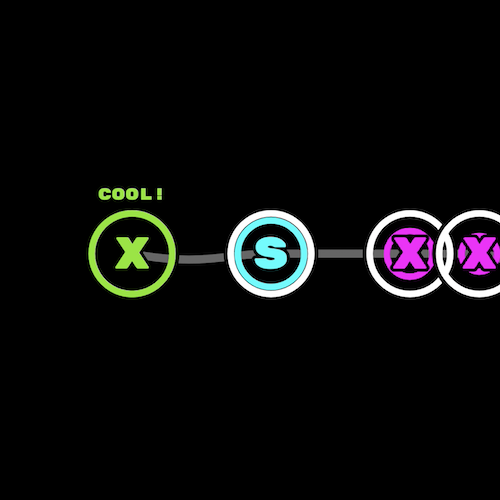
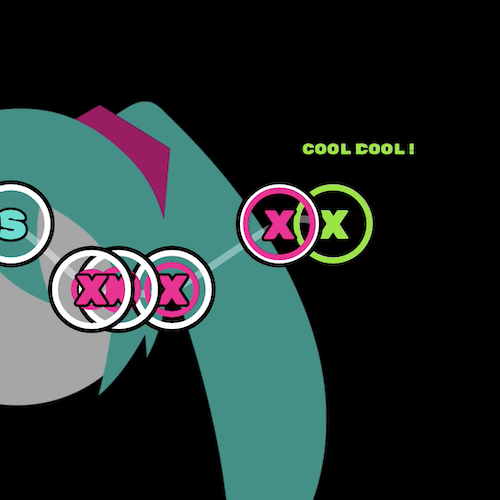
adeed amplitude + hard mode

diff --git a/sketch.js b/sketch.js
@@ -13,21 +13,31 @@ let playRate = 1;
 let scaleSize;
 let scorePercent;
 let songPercent;
-let scoreColor = 'white';
+
+let colorGreen = 'rgb(130,230,0)';
+let colorBlue = 'rgb(41,224,207)';
+let colorRed = 'rgb(255,0,150)';
+let colorPurple = 'rgb(120,60,120))';
+let colorGray = 'rgb(120,120,120)';
+let colorB = 'black';
+let colorW = 'white';
+
+let scoreColor = colorW;
 
 
 function preload() {
-  data = loadJSON("/2020-03-rrigamondi/assets/beatmap.json");
-  clap = loadSound("/2020-03-rrigamondi/assets/clap.wav")
-  ievan = loadSound("/2020-03-rrigamondi/assets/ievan_polkka.m4a");
-  //data = loadJSON("/assets/beatmap.json");
-  //clap = loadSound("/assets/clap.wav")
-  //ievan = loadSound("/assets/ievan_polkka.m4a");
+  //data = loadJSON("/2020-03-rrigamondi/assets/beatmap.json");
+  //clap = loadSound("/2020-03-rrigamondi/assets/clap.wav")
+  //ievan = loadSound("/2020-03-rrigamondi/assets/ievan_polkka.m4a");
+  data = loadJSON("/assets/beatmap.json");
+  clap = loadSound("/assets/clap.wav");
+  ievan = loadSound("/assets/ievan_polkka.m4a");
+  miku = loadImage("/assets/miku.png");
 }
 
 function setup() {
   createCanvas(windowWidth,windowHeight);
-  angleMode(DEGREES)
+  angleMode(DEGREES);
 
   //set possible x/y positions
   var p3 = width/20*3;
@@ -66,8 +76,7 @@ function setup() {
 }
 
 function draw() {
-  background('black');
-
+  background(colorB);
 
   if (windowHeight <= windowWidth*1.5){
     scaleSize = windowHeight/2880*2+0.2;
@@ -81,16 +90,18 @@ function draw() {
     push();
     textAlign(CENTER,CENTER);
 
-    fill('aqua');
+    fill(colorBlue);
     textFont('Rubik Mono One');
     textSize(60);
     text('Project DIVA\np5.JS', width/2, height/2-70);
 
-    fill('white');
+    transp = "rgba(255,255,255," + map(sin(frameCount*1.6), -1, 1, 0.25, 1) +")";
+    fill(transp);
     textFont('Rubik');
     textSize(20);
-    text('Press X or S to start', width/2, height/2+70);
+    text('press S for normal mode\npress X for hard mode [1.4x]', width/2, height/2+70);
 
+    fill(colorW);
     textSize(20);
     textAlign(CENTER,BOTTOM);
     text('♫ Ievan Polkka ♫\narrangement by Otomania\nfeaturing Hatsune Miku', width/2, height-80);
@@ -100,6 +111,20 @@ function draw() {
   //on screen display
   if (gameStarted){
 
+    //amp Miku
+    push();
+      let amp = analyzer.getLevel();
+      let mikuDelta = map(amp, 0, 1, 0.7, 3)
+      let mikuX = miku.width*mikuDelta;
+      let mikuY = miku.height*mikuDelta;
+
+      imageMode(CENTER);
+      image(miku, width/2, height/2, mikuX, mikuY);
+      fill('rgba(0,0,0,0.35)');
+      rectMode(CENTER);
+      rect(width/2,height/2,mikuX, mikuY);
+    pop();
+
     //run beatmap
     for(let i = 0; i < beatmap.length; i++) {
         beatmap[i].run();
@@ -107,7 +132,7 @@ function draw() {
 
     //time elapsed
     push();
-      fill('aqua');
+      fill(colorBlue);
       songTime = ievan.currentTime();
       songPercent = songTime / ievan.duration();
       rect (0,0,songPercent*width,26);
@@ -118,10 +143,10 @@ function draw() {
       scorePercent = score / maxScore / 10;
       //console.log(scorePercent);
       if (scorePercent == 100){
-        scoreColor =  'magenta';
+        scoreColor =  colorRed;
       }
       else if (scorePercent >= 75){
-        scoreColor = 'rgb(130,230,0)';
+        scoreColor = colorGreen;
       }
       fill(scoreColor);
       text('SCORE / ' + score, 60, height-60);
@@ -137,7 +162,7 @@ function draw() {
 }
 
 function resultsScreen(){
-  background('black');
+  background(colorB);
   push();
     let rank
     if (scorePercent == 100){
@@ -154,20 +179,20 @@ function resultsScreen(){
     }
     else{
       rank = "F - Fail..."
-      scoreColor = 'rgb(120,60,120)';
+      scoreColor = colorPurple;
     }
     textFont('Rubik Mono One');
     textSize(60);
     textAlign(CENTER,BOTTOM);
 
-    fill('white');
+    fill(colorW);
     text('Results!\nRank:', width/2, height/12*5);
 
     fill(scoreColor);
     text(rank, width/2, height/12*7)
 
     //song info
-    fill('white');
+    fill(colorW);
     textFont('Rubik');
     textSize(20);
     textAlign(CENTER,BOTTOM);
@@ -179,9 +204,9 @@ function resultsScreen(){
 function addBeats(id, type, time, posX, posY) {
   let beatColor;
   if (type == "x") {
-    beatColor = "magenta";
+    beatColor = colorRed;
   } else {
-    beatColor = "aqua";
+    beatColor = colorBlue
   }
   const newBeat = new Beat(id, type, time, posX, posY, beatColor)
   beatmap.push(newBeat);
@@ -192,7 +217,7 @@ class Beat {
   constructor(temp_id, temp_type, temp_time, temp_posX, temp_posY, temp_beatColor) {
     this.id = temp_id;
     this.type = temp_type;
-    this.time = temp_time;
+    this.time = temp_time+0.1
     this.x = temp_posX;
     this.y = temp_posY;
     this.color = temp_beatColor;
@@ -219,10 +244,10 @@ class Beat {
     push();
       noFill();
       strokeWeight(12*scaleSize);
-      stroke('black');
+      stroke(colorB);
       ellipse(this.x, this.y, 100*scaleSize+6);
       strokeWeight(8*scaleSize);
-      stroke('white');
+      stroke(colorW);
       ellipse(this.x, this.y, 100*scaleSize);
     pop();
 
@@ -241,11 +266,10 @@ class Beat {
       textSize(55*scaleSize);
       textFont('Rubik Mono One')
       fill(this.color);
-      stroke('black');
+      stroke(colorB);
       strokeWeight(8*scaleSize);
       text(this.type, this.x,this.y+5);
     pop();
-
   }
 
   gameInput(){ //checks for input and whether it's correct
@@ -275,7 +299,7 @@ class Beat {
   result(){
     if (songTime <= this.time + beatInput + 0.3 && this.beatStatus == 'correct'){
       //correct beat effect
-        this.color = 'rgb(130,230,0)';
+        this.color = colorGreen;
         push();
           fill(this.color);
           noStroke();
@@ -287,7 +311,7 @@ class Beat {
       }
     else if (songTime >= this.time + beatInput && songTime <= this.time + beatInput + 0.3 && this.beatStatus == null){
       //miss beat effect
-        this.color = 'rgb(120,120,120)';
+        this.color = colorGray;
         this.beatStatus = 'miss';
         push();
           fill(this.color);
@@ -300,7 +324,7 @@ class Beat {
     }
     else if (songTime <= this.time + beatInput + 0.3 && this.beatStatus == 'wrong'){
       //wrong beat effect
-        this.color = 'rgb(120,60,120)';
+        this.color = colorPurple;
         push();
           fill(this.color);
           noStroke();
@@ -316,7 +340,7 @@ class Beat {
       //songTime = ievan.currentTime();
       //let songPercent = songTime / ievan.duration();
       //rect (0,0,songPercent*width,30);
-        stroke('white');
+        stroke(colorRed);
         noFill();
         strokeWeight(4);
         line(this.timePercent*width-3,32,this.timePercent*width+3,38);
@@ -340,23 +364,25 @@ class Beat {
 //start the game and play the sound effects when pressing
 function keyTyped(){
   if (key == 'x' || key == 's'){
-  if (ievan.isPlaying() == false && gameStarted == false){
-    ievan.play();
-    //ievan.rate(2);
-    gameStarted = true;
-    //console.log("game started")
-  }
-  else {
-  clap.play();
-}}
-  else if (key == 'd') { //debug change song speed
-      playRate = 4
-      ievan.rate(playRate);
+    if (ievan.isPlaying() == false && gameStarted == false){
+      analyzer = new p5.Amplitude();
+      analyzer.setInput(ievan);
 
-  }
-  else if (key == 'c') { //debug change song speed
-      playRate = 1
+      if (key == 's'){ //normal mode
+        playRate = 1;
+      }
+      else if (key == 'x'){ //hard mode
+        playRate = 1.4;
+        beatInput = 0.15;
+      }
+
       ievan.rate(playRate);
+      ievan.play();
+      gameStarted = true;
+    }
+    else {
+      clap.play();
+    }
   }
 }
 
